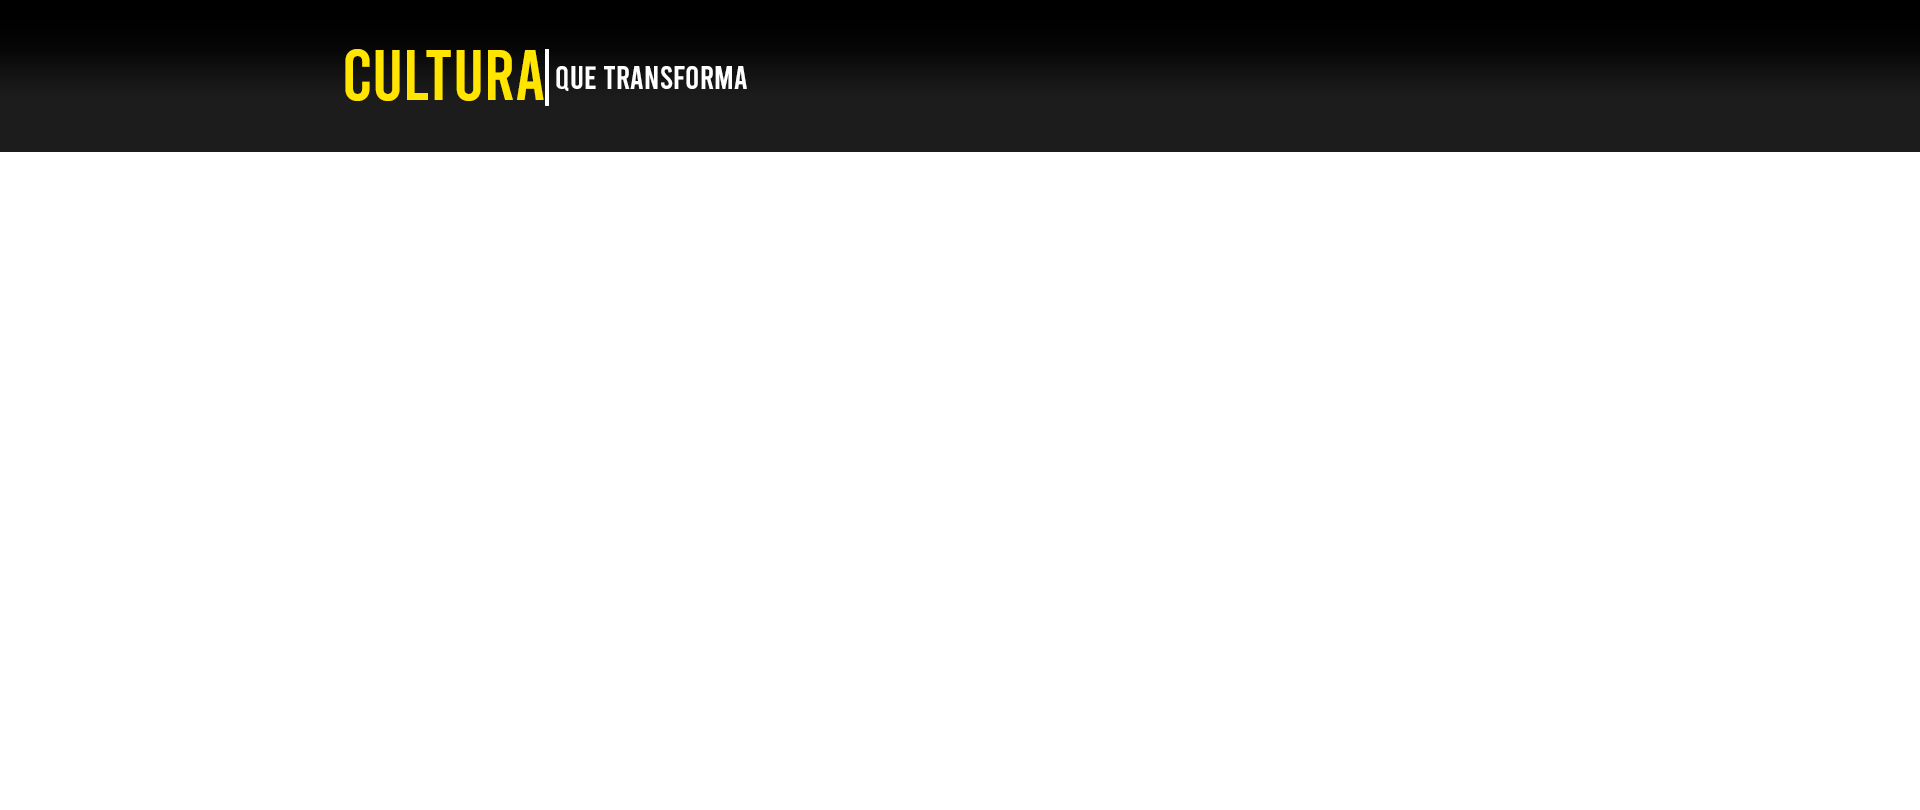
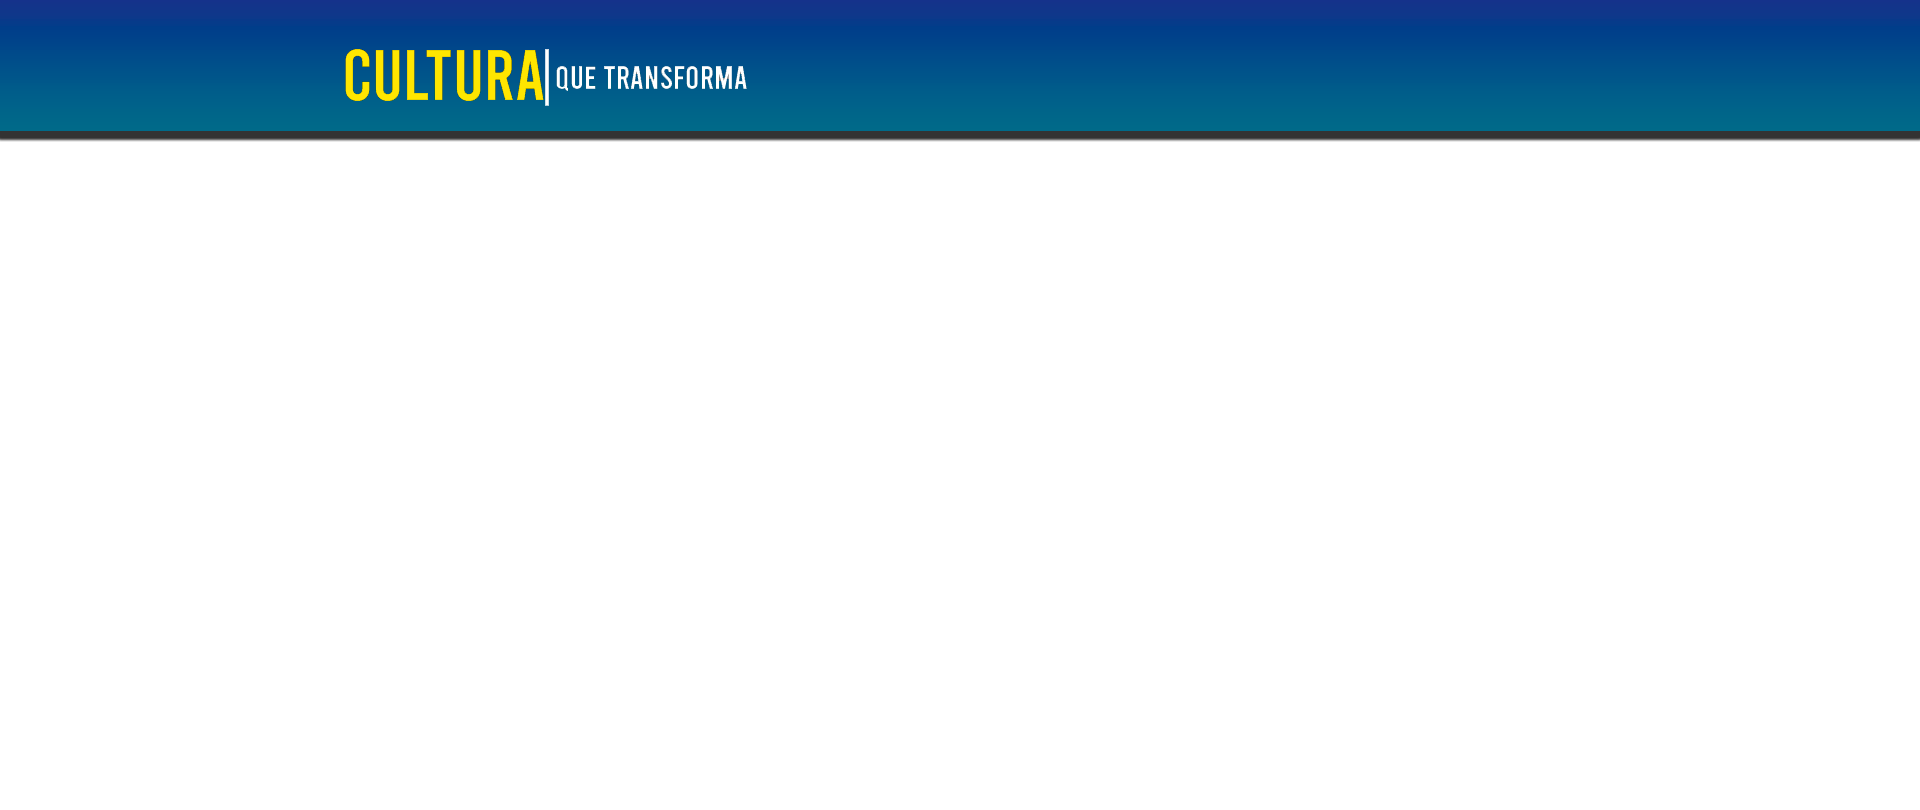
Add files via upload

Changed region(s): [[0.0, 0.0, 1.0, 0.1852]]

diff --git a/projetofinalcvti/index.html b/projetofinalcvti/index.html
@@ -1,3 +1,4 @@
+<!--Não precisa começar o comando ! - enter: copie daqui-->
 <!DOCTYPE html>
 <html lang="pt-br">
 <head>
@@ -14,7 +15,7 @@
 <body>
     <nav style="background-image:url(img/cultura.png)" class="navbar navbar-expand-lg navbar-light fixed-top">
         <div class="container">
-          <a class="navbar-brand" href="#"><img src="img/logoo.png" width="150px" alt=""></a>
+          <a class="navbar-brand" href="#"><img src="img/logoo.png" vspace="0" width="130px"  alt=""></a>
           <button class="navbar-toggler" type="button" data-toggle="collapse" data-target="#navbarSupportedContent" aria-controls="navbarSupportedContent" aria-expanded="false" aria-label="Toggle navigation">
             <span class="navbar-toggler-icon"></span>
           </button>
@@ -22,25 +23,25 @@
           <div class="collapse navbar-collapse" id="navbarSupportedContent">
             <ul class="navbar-nav ml-auto">
       <li class="nav-item active">
-                <a class="nav-link" href="#" style="color:white;" >História</a>
+                <b><a class="nav-link" href="pagina1.html" style="color:rgb(255, 166, 0); text-shadow: black 0.1em 0.1em 0.2em">História</a></b>
               </li>
       <li class="nav-item">
-                <a class="nav-link" href="#"style="color:white;">Eventos</a>
+        <b><a class="nav-link" href="#" style="color:rgb(255, 166, 0); text-shadow: rgb(0, 0, 0) 0.1em 0.1em 0.2em">Eventos</a></b>
               </li>
       <li class="nav-item">
-                <a class="nav-link" href="#"style="color:white;">Cursos</a>
+        <b><a class="nav-link" href="#" style="color:rgb(255, 166, 0); text-shadow: black 0.1em 0.1em 0.2em">Cursos</a></b>
               </li>
       <li class="nav-item">
-                <a class="nav-link" href="#"style="color:white;">Biblioteca</a>
+        <b><a class="nav-link" href="#" style="color:rgb(255, 166, 0); text-shadow: black 0.1em 0.1em 0.2em">Biblioteca</a></b>
               </li>
       <li class="nav-item">
-                <a class="nav-link" href="#"style="color:white;">Exposição</a>
+        <b><a class="nav-link" href="#" style="color:rgb(255, 166, 0); text-shadow: black 0.1em 0.1em 0.2em">Exposição</a></b>
               </li>
       </ul>
       </div>
-      </div>
-      </nav>
-      
+      </nav> 
+    <!--Antes de Começar a fazer sua pagina, até aqui-->
+
       <div id="carouselExampleIndicators" class="carousel slide" data-ride="carousel">
         <ol class="carousel-indicators">
       <li data-target="#carouselExampleIndicators" data-slide-to="0" class="active"></li>
@@ -134,16 +135,5 @@
             <span></span>
             <span></span>
           </div>
-          </div>
-         </div>
-        </div>
-        <main>
-            <section class="google-map">
-                <div class="map-frame">
-                    <iframe src="https://www.google.com/maps/embed?pb=!1m18!1m12!1m3!1d1546.874685075173!2d-43.45125761991741!3d-22.76134460837363!2m3!1f0!2f0!3f0!3m2!1i1024!2i768!4f13.1!3m3!1m2!1s0x996706b1009f1d%3A0xab3ace7a1309eb2c!2sCasa%20de%20Cultura%20de%20Nova%20Igua%C3%A7u%20-%20Complexo%20Cultural!5e0!3m2!1spt-BR!2sbr!4v1685592585633!5m2!1spt-BR!2sbr" width="600" height="450" frameborder="0" style="border:0;" allowfullscreen="" aria-hidden="false" tabindex="0"></iframe>
-                </div>
-            </section>
-        </main>
           
-        </div>
 </html>

diff --git a/projetofinalcvti/pagina1.html b/projetofinalcvti/pagina1.html
@@ -1,0 +1,42 @@
+<!--Não precisa começar o comando ! - enter: copie daqui-->
+<!DOCTYPE html>
+<html lang="pt-br">
+<head>
+    <meta charset="UTF-8">
+    <meta http-equiv="X-UA-Compatible" content="IE=edge">
+    <meta name="viewport" content="width=device-width, initial-scale=1.0">
+    <title>Document</title>
+    <link rel="stylesheet" href="style.css">
+    <link rel="stylesheet" href="https://stackpath.bootstrapcdn.com/bootstrap/4.5.2/css/bootstrap.min.css">
+<script src="https://code.jquery.com/jquery-3.5.1.slim.min.js"></script>
+<script src="https://cdn.jsdelivr.net/npm/popper.js@1.16.1/dist/umd/popper.min.js"></script>
+<script src="https://stackpath.bootstrapcdn.com/bootstrap/4.5.2/js/bootstrap.min.js"></script>
+</head>
+<body>
+    <nav style="background-image:url(img/cultura.png)" class="navbar navbar-expand-lg navbar-light fixed-top">
+        <div class="container">
+          <a class="navbar-brand" href="#"><img src="img/logoo.png" vspace="0" width="130px"  alt=""></a>
+          <button class="navbar-toggler" type="button" data-toggle="collapse" data-target="#navbarSupportedContent" aria-controls="navbarSupportedContent" aria-expanded="false" aria-label="Toggle navigation">
+            <span class="navbar-toggler-icon"></span>
+          </button>
+      
+          <div class="collapse navbar-collapse" id="navbarSupportedContent">
+            <ul class="navbar-nav ml-auto">
+      <li class="nav-item active">
+                <b><a class="nav-link" href="pagina1.html" style="color:rgb(255, 166, 0); text-shadow: black 0.1em 0.1em 0.2em">História</a></b>
+              </li>
+      <li class="nav-item">
+        <b><a class="nav-link" href="#" style="color:rgb(255, 166, 0); text-shadow: rgb(0, 0, 0) 0.1em 0.1em 0.2em">Eventos</a></b>
+              </li>
+      <li class="nav-item">
+        <b><a class="nav-link" href="#" style="color:rgb(255, 166, 0); text-shadow: black 0.1em 0.1em 0.2em">Cursos</a></b>
+              </li>
+      <li class="nav-item">
+        <b><a class="nav-link" href="#" style="color:rgb(255, 166, 0); text-shadow: black 0.1em 0.1em 0.2em">Biblioteca</a></b>
+              </li>
+      <li class="nav-item">
+        <b><a class="nav-link" href="#" style="color:rgb(255, 166, 0); text-shadow: black 0.1em 0.1em 0.2em">Exposição</a></b>
+              </li>
+      </ul>
+      </div>
+      </nav> 
